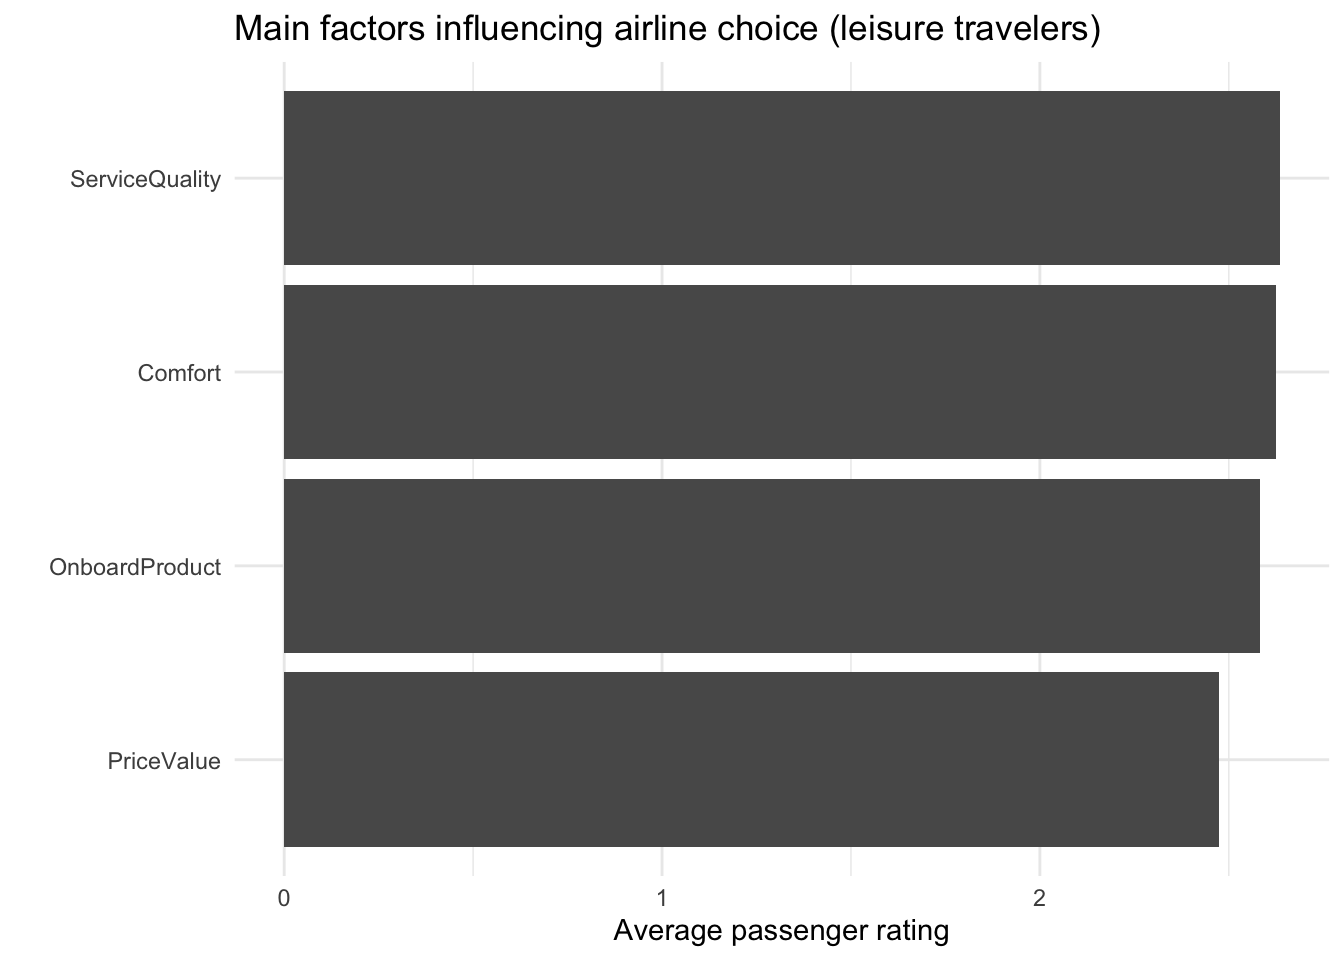
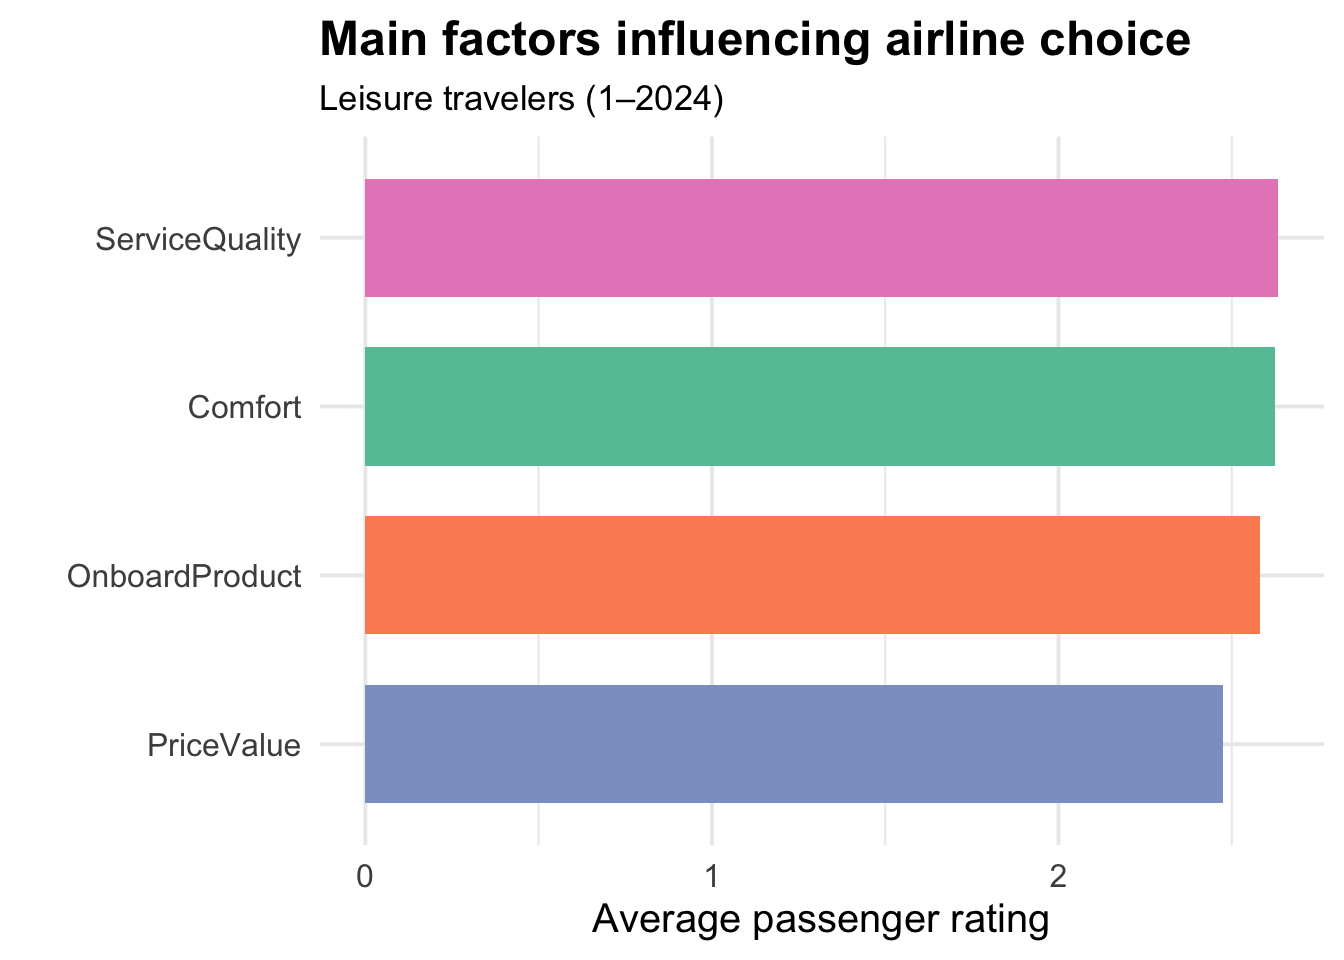
Built site for gh-pages

diff --git a/index.html b/index.html
@@ -141,18 +141,13 @@ ul.task-list li input[type="checkbox"] {
 
 
 <p><img src="images/clipboard-2934921368.png" class="img-fluid"></p>
+<hr>
+<p>In addition to our bibliographic research, we decided to analyze a dataset of 129,000 flight reviews using R software (see methodology tab) to identify the main factors driving airline choice. Although the dataset did not include information on the perceived environmental performance of airlines, it did provide valuable insights into perceptions of price, service, and comfort.</p>
 <div class="cell">
 <div class="cell-output-display">
 <div>
 <figure class="figure">
 <p><img src="index_files/figure-html/unnamed-chunk-1-1.png" class="img-fluid figure-img" width="672"></p>
-</figure>
-</div>
-</div>
-<div class="cell-output-display">
-<div>
-<figure class="figure">
-<p><img src="index_files/figure-html/unnamed-chunk-1-2.png" class="img-fluid figure-img" width="672"></p>
 </figure>
 </div>
 </div>
